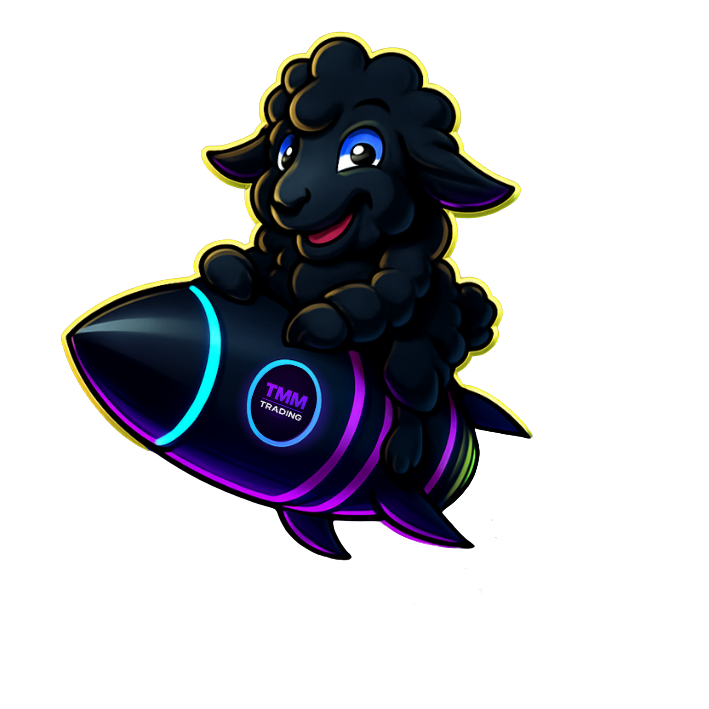
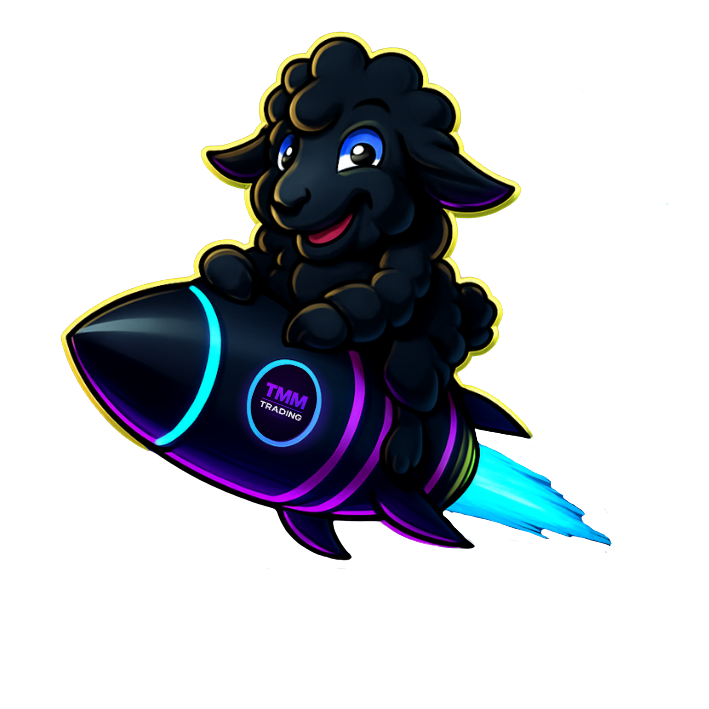
rocket

Changed region(s): [[0.6206, 0.6206, 0.8688, 0.7757]]

diff --git a/script.js b/script.js
@@ -327,42 +327,23 @@ function addParallaxEffect() {
     });
 }
 
-// Función para animar la oveja en cohete de forma aleatoria
+// Función para animar la oveja en cohete una sola vez
 function animateRocketSheep() {
     const rocketSheep = document.querySelector('.rocket-sheep');
     if (!rocketSheep) return;
     
-    // Definir las posibles animaciones
-    const animations = [
-        'flyTopRight',
-        'flyBottomRight',
-        'flyTopLeft',
-        'flyBottomLeft'
-    ];
-    
-    // Función para iniciar una animación aleatoria
-    function startRandomAnimation() {
-        // Seleccionar una animación aleatoria
-        const randomAnimation = animations[Math.floor(Math.random() * animations.length)];
-        
-        // Reiniciar el estado de la animación
-        rocketSheep.style.animation = 'none';
-        rocketSheep.offsetHeight; // Trigger reflow
-        
-        // Posicionar aleatoriamente en el eje Y dentro del hero
-        const randomYPosition = 20 + Math.random() * 60; // Entre 20% y 80% del alto
-        rocketSheep.style.top = `${randomYPosition}%`;
-        
-        // Aplicar la animación
-        rocketSheep.style.animation = `${randomAnimation} 10s ease-in-out forwards`;
-        
-        // Programar la próxima animación después de un tiempo aleatorio
-        const nextAnimationDelay = 15000 + Math.random() * 20000; // Entre 15 y 35 segundos
-        setTimeout(startRandomAnimation, nextAnimationDelay);
+    // Verificar si es un dispositivo móvil
+    if (window.innerWidth <= 768) {
+        // No ejecutar la animación en dispositivos móviles
+        return;
     }
     
-    // Iniciar la primera animación después de un breve retraso
-    setTimeout(startRandomAnimation, 3000);
+    // Reiniciar el estado de la animación
+    rocketSheep.style.animation = 'none';
+    rocketSheep.offsetHeight; // Trigger reflow
+    
+    // Aplicar la animación una sola vez
+    rocketSheep.style.animation = 'rocketFlyDiagonal 3s ease-in-out forwards';
 }
 
 // Ejecutar la función cuando el DOM esté cargado
@@ -371,7 +352,7 @@ document.addEventListener('DOMContentLoaded', function() {
     addNeonEffect();
     addGlowEffects();
     initScrollAnimations();
-    enhanceFaqAnimations(); // Esta función ya muestra el primer FAQ por defecto
+    enhanceFaqAnimations();
     addParticleEffect();
     try {
         // Verificar si GSAP está disponible
@@ -383,12 +364,6 @@ document.addEventListener('DOMContentLoaded', function() {
     }
     addParallaxEffect();
     
-    // Eliminar este código duplicado que podría estar causando conflictos
-    // const firstFaqItem = document.querySelector('.faq-item');
-    // if (firstFaqItem) {
-    //     const content = firstFaqItem.querySelector('p');
-    //     const icon = firstFaqItem.querySelector('.faq-icon');
-    //     content.style.display = 'block';
-    //     icon.textContent = '-';
-    // }
+    // Ejecutar la animación del cohete después de un breve retraso
+    setTimeout(animateRocketSheep, 1000);
 });

diff --git a/styles.css b/styles.css
@@ -879,9 +879,17 @@ h1, h2, h3, h4, h5, h6 {
     z-index: 2;
     opacity: 0;
     pointer-events: none;
-    animation-duration: 10s;
-    animation-timing-function: ease-in-out;
     animation-fill-mode: forwards;
+    bottom: 0;
+    right: 0;
+}
+
+/* Animación específica para el cohete que va de esquina inferior derecha a superior izquierda */
+@keyframes rocketFlyDiagonal {
+    0% { opacity: 0; transform: translate(0, 0) rotate(10deg); }
+    10% { opacity: 1; }
+    90% { opacity: 1; }
+    100% { opacity: 0; transform: translate(-100vw, -100vh) rotate(-10deg); }
 }
 
 /* Animaciones para la oveja en cohete */
@@ -1560,7 +1568,14 @@ h1, h2, h3, h4, h5, h6 {
 .step-content h3 {
     font-size: 20px;
     margin-bottom: 10px;
-    color: #A030FF;
+    background: radial-gradient(
+        circle,
+        #A030FF 50%,
+        #12B0E9 65%,
+        #12B0E9 100%
+      );
+      -webkit-background-clip: text;
+      -webkit-text-fill-color: transparent;
     text-transform: uppercase;
     letter-spacing: 1px;
 }
@@ -1904,11 +1919,35 @@ h1, h2, h3, h4, h5, h6 {
         grid-template-columns: 1fr;
     }
     
-    .process-step {
-        flex-direction: column;
+    
+    .process-steps {
+      gap: 15px;
+    }
+    
+    .process-timeline {
+        display: none;
+    }
+    
+    .timeline-dot {
+        display: none;
+    }
+    
+    .timeline-line-vertical {
+        display: none;
+    }
+    
+    .timeline-line {
+        display: none;
+    }
+    .step-image img {
+        max-width: 100%;
     }
     
     .step-number {
         margin-bottom: 10px;
+    }
+    
+    .rocket-sheep {
+        display: none;
     }
 }
